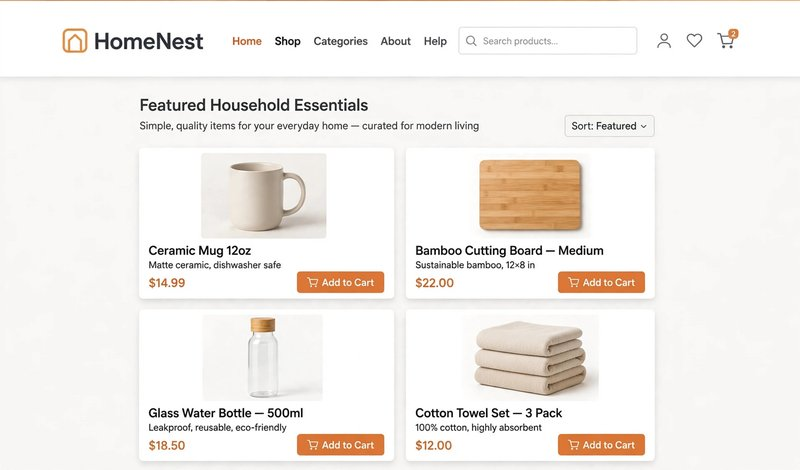
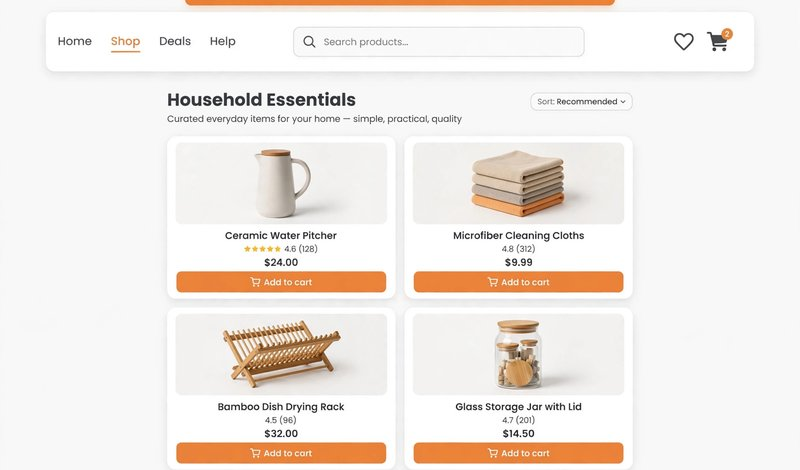
Fix check findings: one-face split portrait, landscape photo strip, brand-free Vunoti image, uncropped portfolio hero

diff --git a/css/style.css b/css/style.css
@@ -458,7 +458,7 @@
       ol.steps li{ margin:0 0 14px; }
       ol.steps b{ color:#333; }
       .folio-hero{ display:grid; grid-template-columns:1fr 1fr; gap:60px; align-items:center; }
-      .folio-hero img{ width:100%; height:420px; object-fit:cover; display:block; border-radius:10px; }
+      .folio-hero img{ width:100%; height:auto; display:block; border-radius:10px; }
       .folio-grid{ display:grid; grid-template-columns:repeat(3, 1fr); gap:30px; margin-top:70px; }
       .blog-list{ max-width:850px; margin:60px auto 0; }
       .post{ margin:0 0 190px; }
@@ -477,7 +477,7 @@
       .social-tile .dot svg.ig{ fill:none; stroke:#fff; stroke-width:2; }
       .social-tile span{ font-size:22px; font-weight:500; }
       .split-face{ display:flex; height:600px; }
-      .split-face img{ width:50%; height:100%; object-fit:cover; display:block; }
+      .split-face img{ width:100%; height:100%; object-fit:cover; display:block; }
       .form-band{ background:#fafafa; padding:90px 0; margin:110px 0 0; }
       .cform{ display:grid; grid-template-columns:1fr 1fr; gap:25px 40px; margin-top:44px; }
       .cform .fld label{ display:block; font-size:22px; color:#333; margin-bottom:10px; }

diff --git a/about.html b/about.html
@@ -53,9 +53,9 @@
           <img src="assets/portrait.jpg" alt="Portrait of Vedant Pandya" width="1127" height="1374" />
         </div>
         <div class="strip" aria-label="Photos of Vedant">
-          <img src="assets/solver-tall.jpg" alt="Vedant Pandya, problem solver artwork" loading="lazy" />
-          <img src="assets/photo-tall.jpg" alt="Vedant Pandya" loading="lazy" />
-          <img src="assets/solver.jpg" alt="Vedant Pandya, problem solver collage" loading="lazy" />
+          <img src="assets/strip-1.jpg" alt="Vedant Pandya, problem solver artwork" loading="lazy" />
+          <img src="assets/strip-2.jpg" alt="Vedant Pandya" loading="lazy" />
+          <img src="assets/strip-3.jpg" alt="Vedant Pandya, problem solver collage" loading="lazy" />
         </div>
       </div>
       <section class="band-sec">

diff --git a/portfolio.html b/portfolio.html
@@ -47,7 +47,7 @@
             <h1 class="page-head">portfolio.</h1>
             <p class="page-intro">I&rsquo;ve built AI and business systems for real problems &mdash; customer support, reports, inventory, accounting, feedback and online stores.</p>
           </div>
-          <img src="assets/project-1.jpg" alt="AI customer support system dashboard" />
+          <img src="assets/project-8.jpg" alt="Business data automation dashboard" />
         </div>
         <div class="folio-grid">
           <article class="card">

diff --git a/contact.html b/contact.html
@@ -57,8 +57,7 @@
             </a>
           </div>
           <div class="split-face">
-            <img src="assets/solver-tall.jpg" alt="Vedant Pandya, problem solver artwork" />
-            <img src="assets/photo-tall.jpg" alt="Vedant Pandya" />
+            <picture><source srcset="assets/split-face.webp" type="image/webp"><img src="assets/split-face.jpg" alt="Vedant Pandya, half artwork and half photograph" /></picture>
           </div>
         </div>
       </div>
